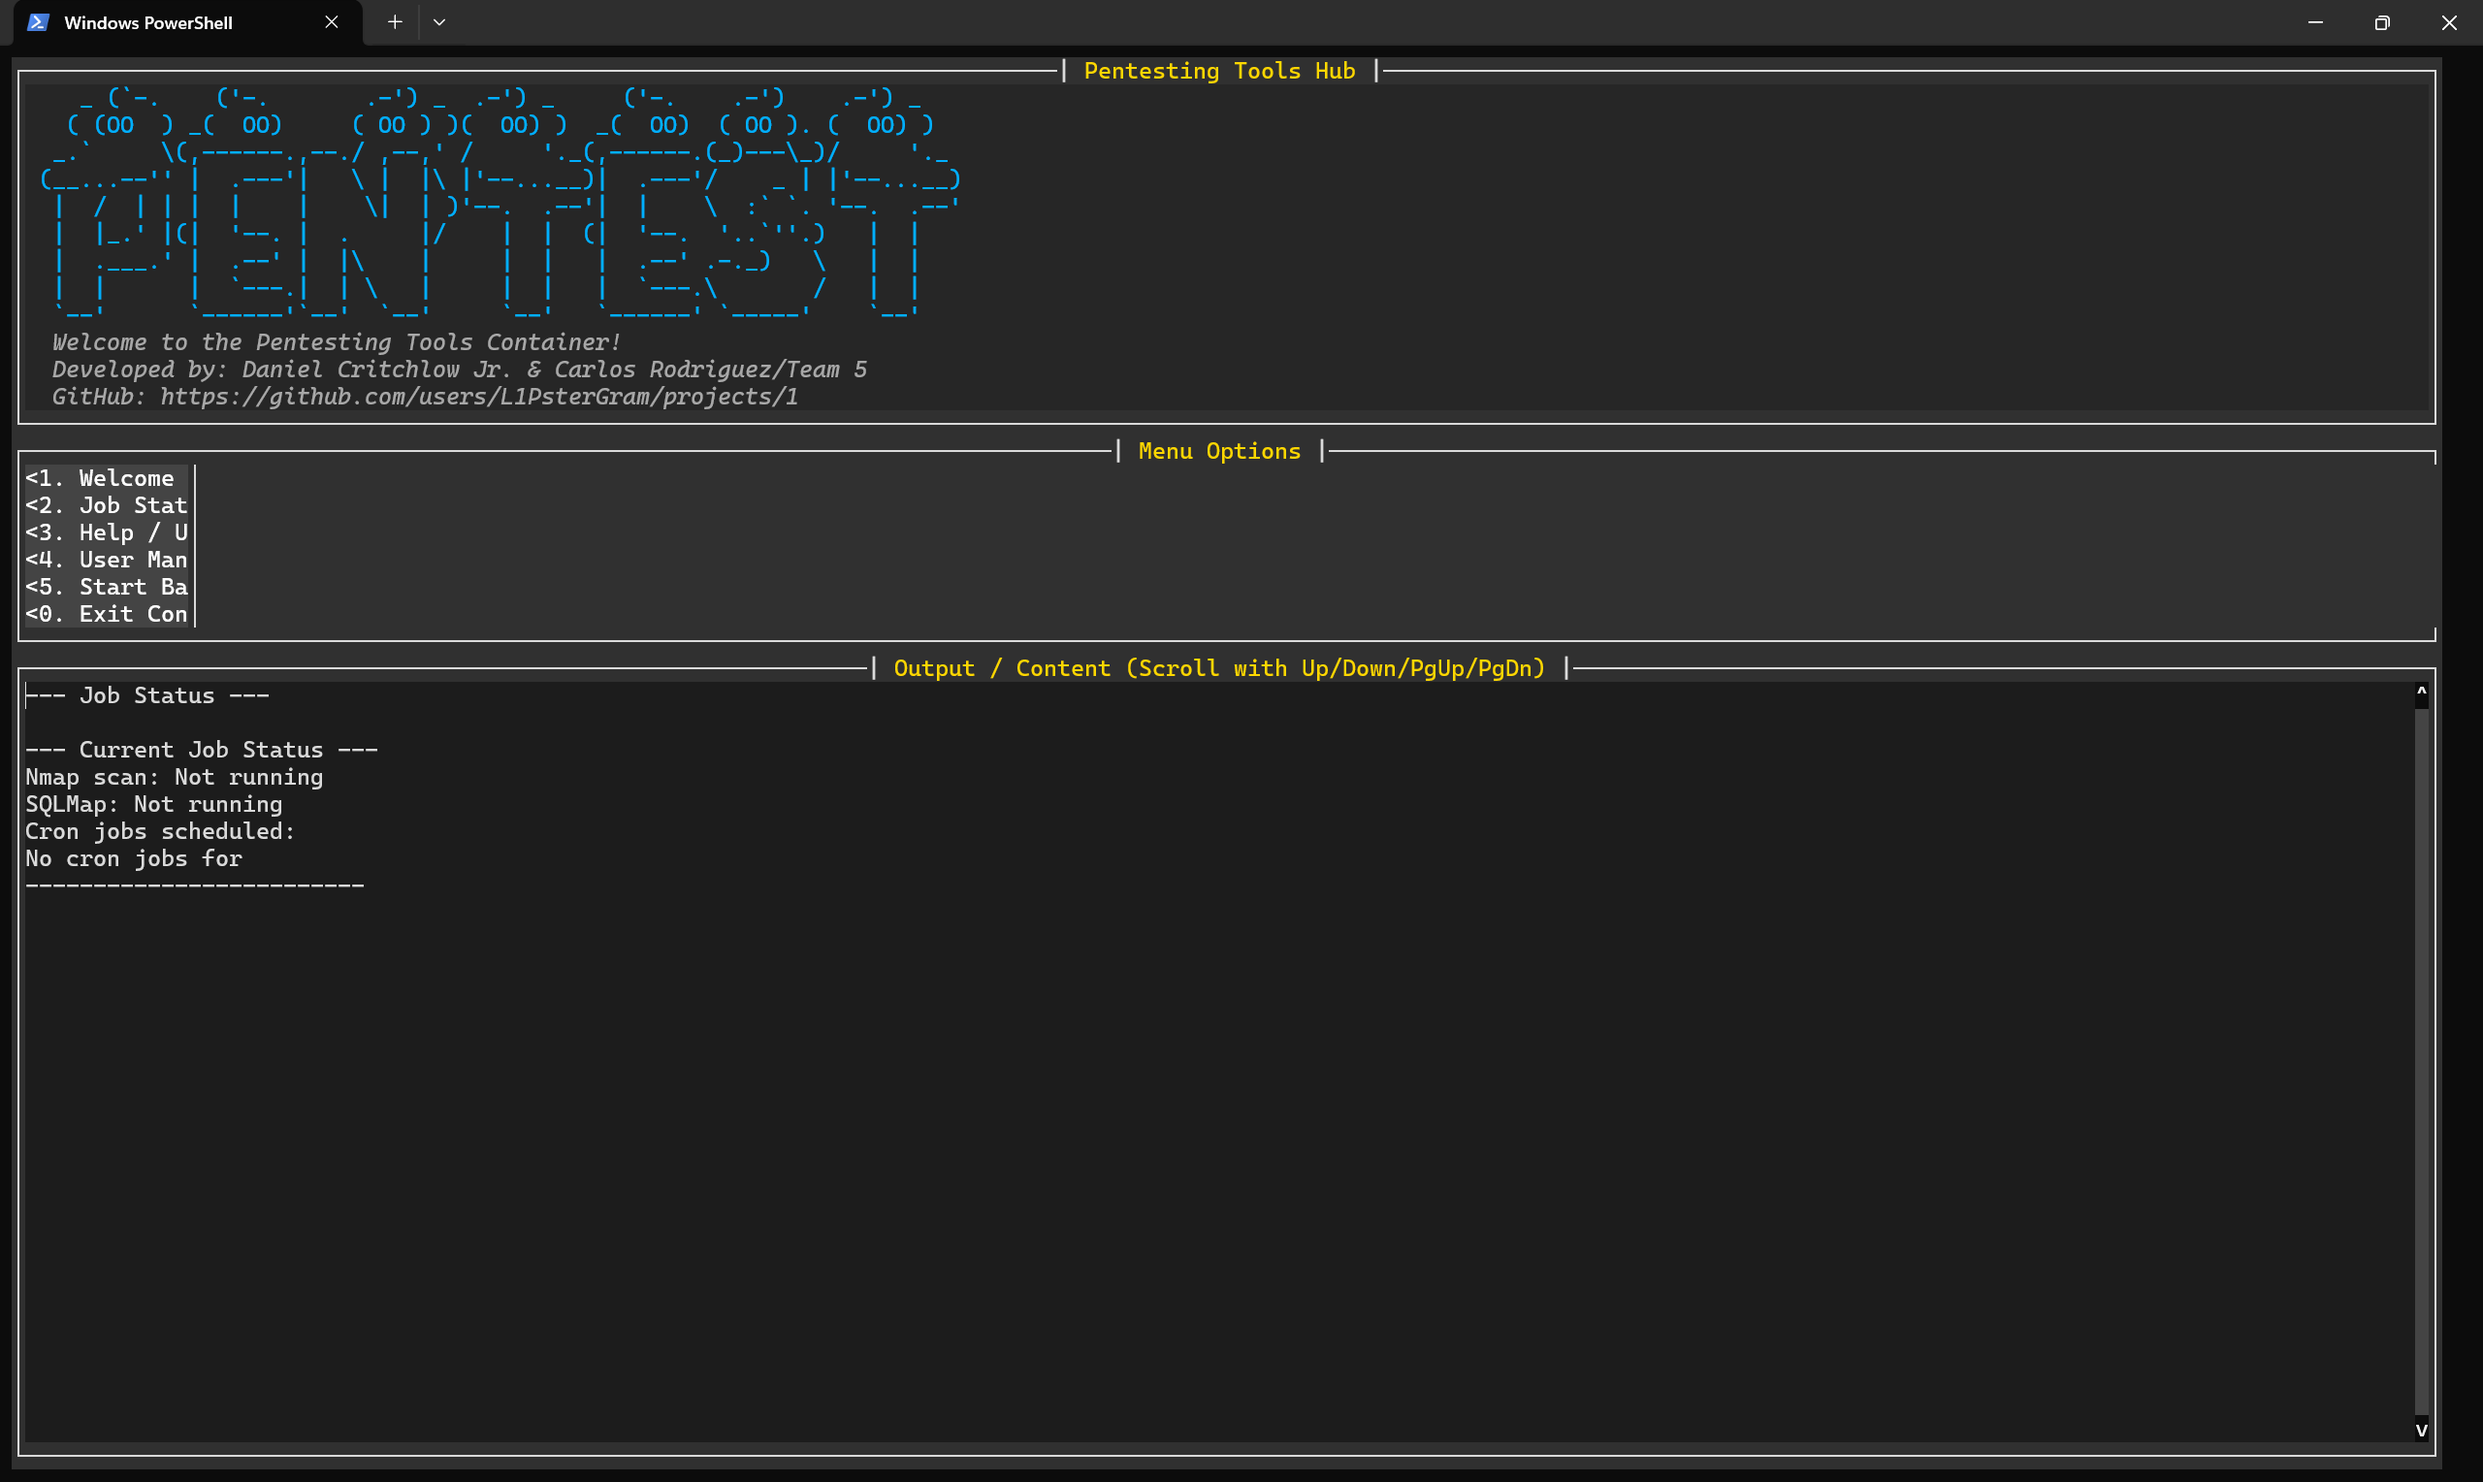
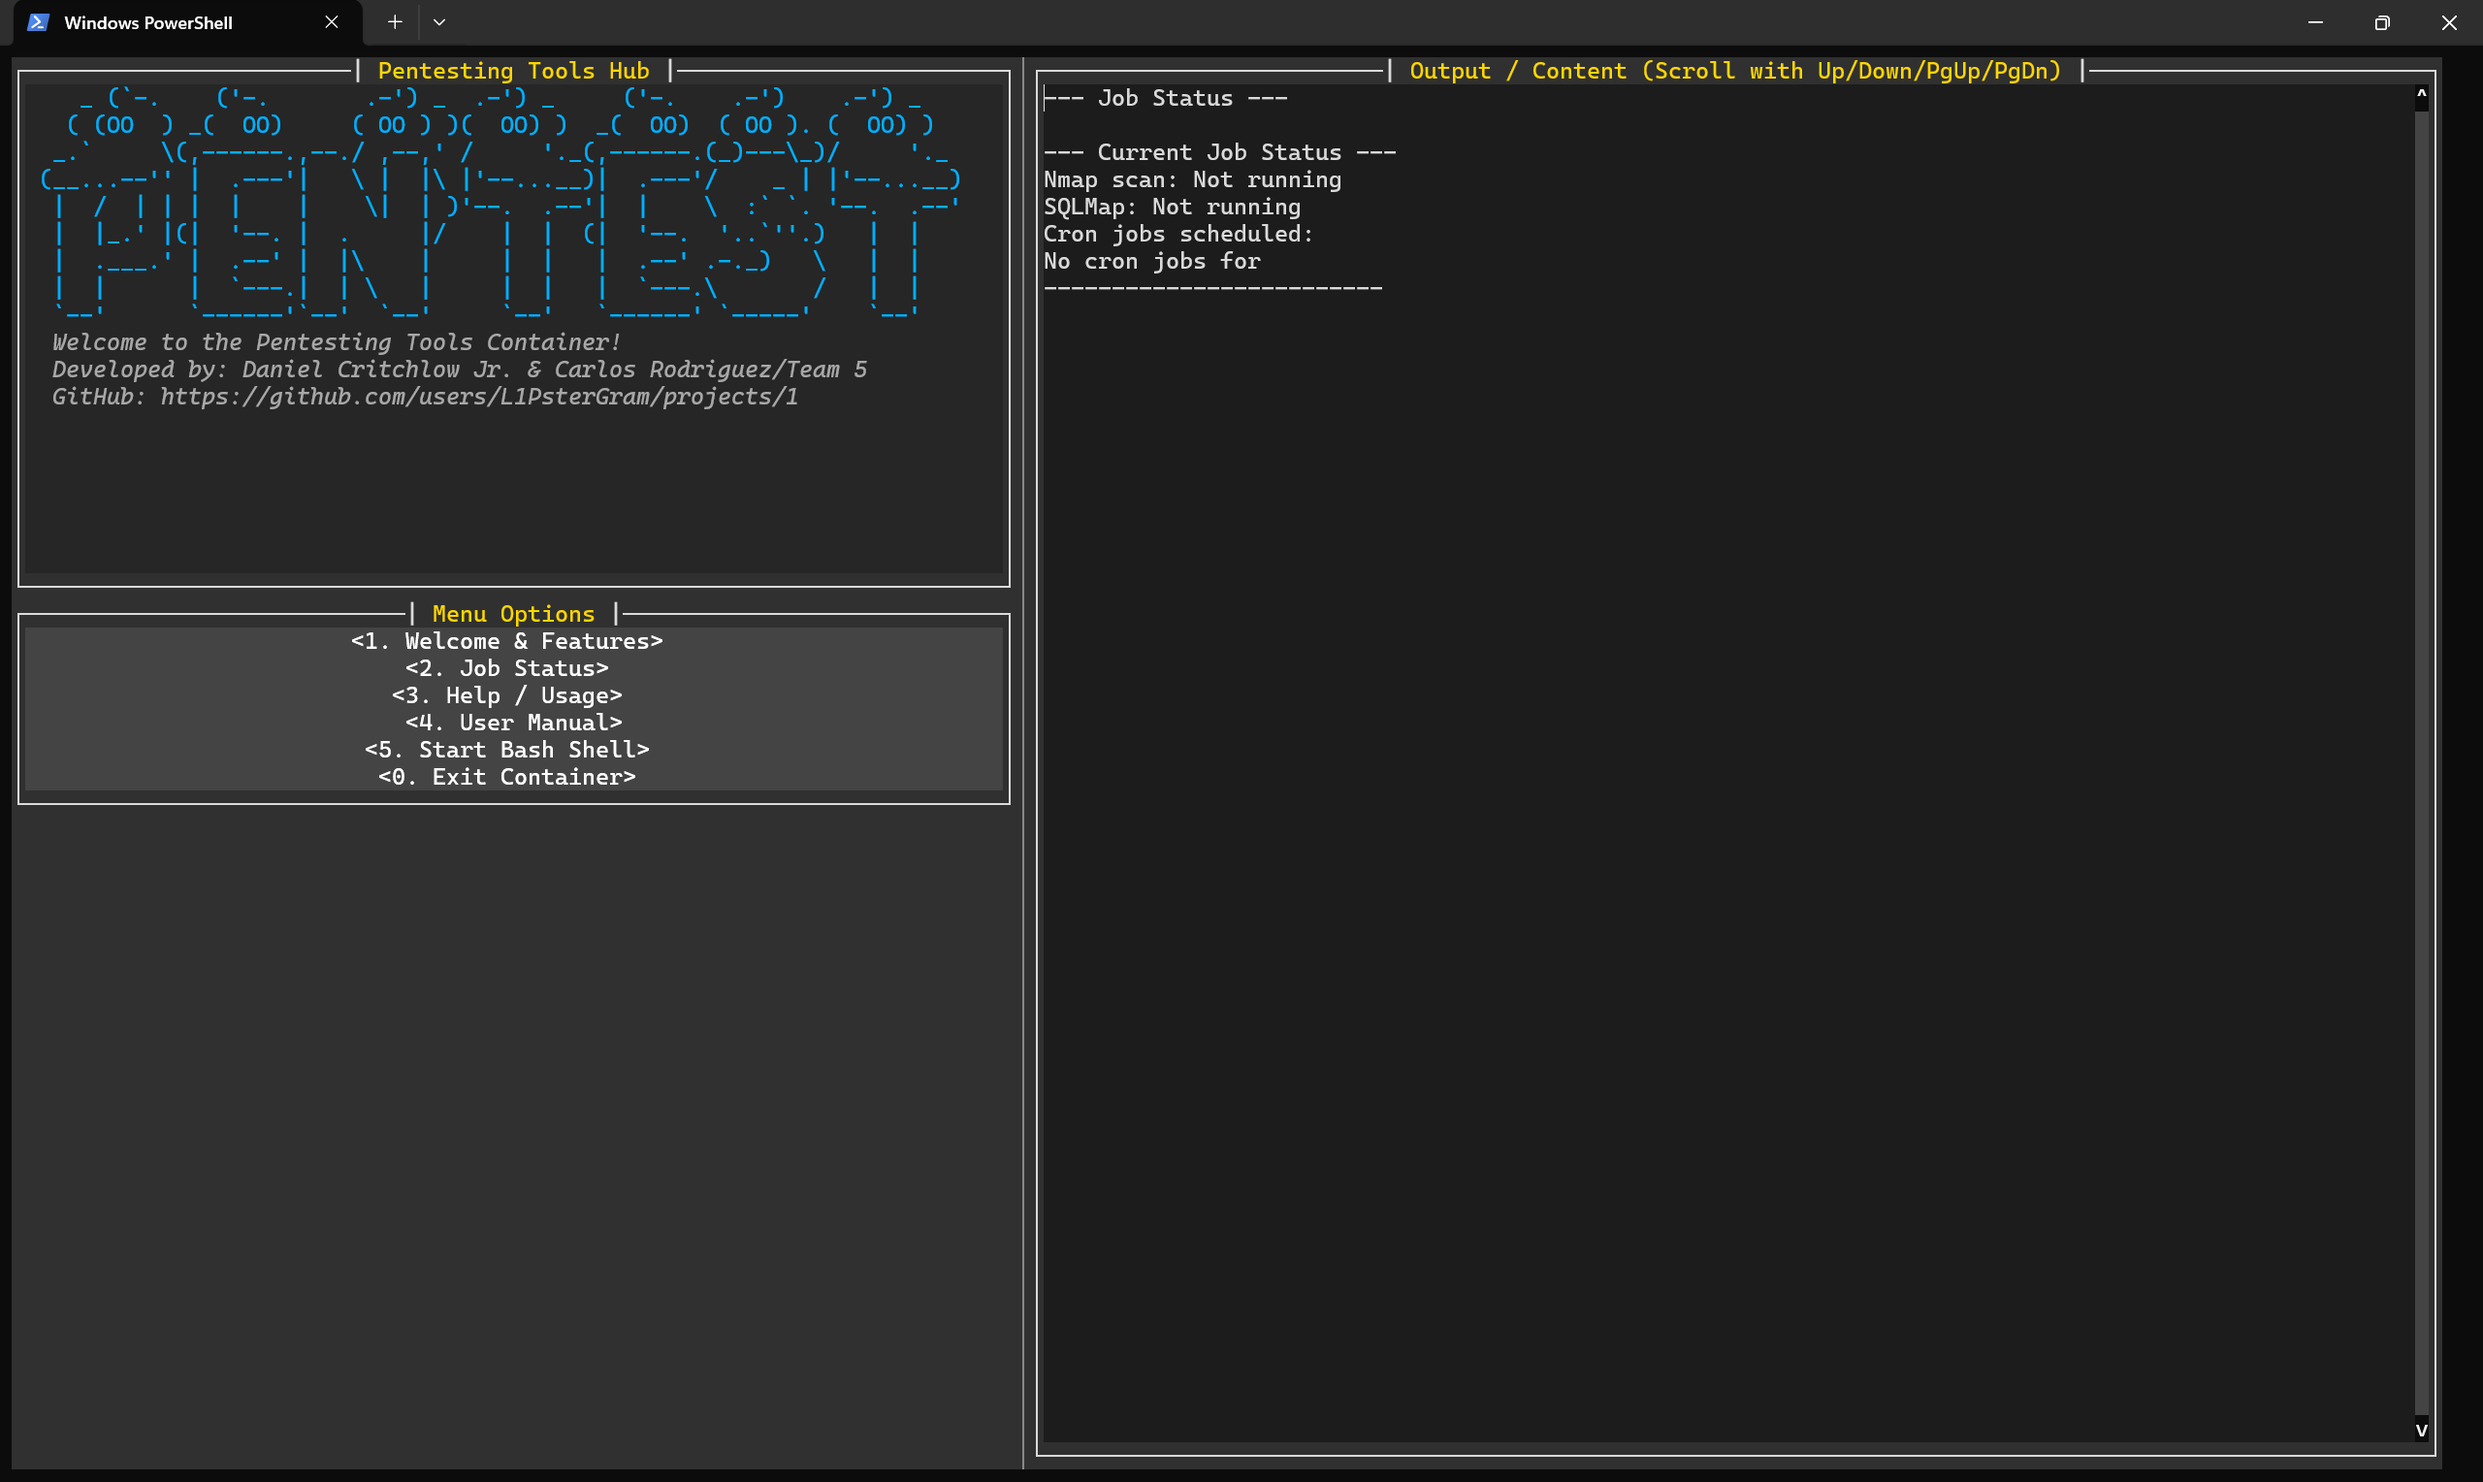
Update TUI
- Various updates to TUI
- Updated screenshots
- Added bashrc
- Cleaned up code
- Added visuals

diff --git a/src/Dockerfile/tui_menu.py b/src/Dockerfile/tui_menu.py
@@ -6,6 +6,8 @@ import sys
 import datetime # For debug logging
 from prompt_toolkit import Application
 from prompt_toolkit.key_binding import KeyBindings
+# Import Dimension object 'D' - Although not strictly needed after removing Window wrappers unless we apply width directly to Frames/HSplits
+from prompt_toolkit.layout.dimension import D 
 from prompt_toolkit.layout.containers import HSplit, Window, VSplit
 from prompt_toolkit.layout.controls import FormattedTextControl
 from prompt_toolkit.layout.layout import Layout
@@ -15,21 +17,25 @@ from prompt_toolkit.formatted_text import HTML
 
 # --- Configuration & Globals ---
 SHELL_FUNCTIONS_SCRIPT = "/usr/local/bin/shell_functions.sh"
-DEBUG_LOG_FILE = "/tmp/tui_debug.log" # Make sure /tmp is writable by the user
+DEBUG_LOG_FILE = "/tmp/tui_debug.log" 
 
 # --- Style for the TUI ---
 tui_style = Style.from_dict({
     'dialog':             'bg:#333333 #dddddd',
     'dialog.body':        'bg:#2a2a2a #cccccc',
+    'frame':              'bg:#333333', 
     'frame.label':        '#FFD700 bold',
     'button':             'bg:#444444 #ffffff',
-    'button.focused':     'bg:#FF8C00 #000000',
+    # This style is applied when the button has focus (e.g., navigating with arrow keys)
+    'button.focused':     'bg:#FF8C00 #000000', 
     'label':              '#eeeeee',
     'text-area':          'bg:#1e1e1e #e0e0e0',
     'text-area.focused':  'bg:#101010',
     'title':              '#FFD700 bold',
     'credits':            'italic #aaaaaa',
     'logo':               '#00aaFF',
+    'vsplit-line':        'bg:#333333 #888888', 
+    'action-confirm':     'fg:#00FF00 bold', # Style for the confirmation text
 })
 
 # --- Helper to Call Shell Functions ---
@@ -62,7 +68,7 @@ def call_shell_function(function_name, *args):
         return f"An unexpected error occurred while calling {function_name}: {str(e)}"
 
 # --- TUI Application State ---
-app_instance = None
+app_instance = None # Keep track of the current app instance
 output_text_area = TextArea(
     text="Welcome! Select an option from the menu.",
     read_only=True,
@@ -71,6 +77,8 @@ output_text_area = TextArea(
     line_numbers=False,
     wrap_lines=True
 )
+# We still need a reference to the button container to return focus
+buttons_layout = None 
 
 # --- Logo and Credits ---
 LOGO_TEXT = HTML(
@@ -90,94 +98,146 @@ CREDITS_TEXT = HTML(
     "  GitHub: https://github.com/users/L1PsterGram/projects/1</credits>"
 )
 
+
 # --- Action Handlers ---
-def update_output_area(title, content_function_name_or_direct_content, is_direct_content=False):
-    global output_text_area, app_instance 
+def update_output_area(action_title, content_function_name_or_direct_content, is_direct_content=False):
+    """Updates the output area, prepending the action taken."""
+    global output_text_area, app_instance, buttons_layout # Need access to buttons_layout
     content_to_display = ""
+    action_confirmation = f"--- Action Selected: {action_title} ---"
+    
     with open(DEBUG_LOG_FILE, "a") as f:
-        f.write(f"{datetime.datetime.now()}: update_output_area: title='{title}'\n")
+        f.write(f"{datetime.datetime.now()}: update_output_area: action='{action_title}'\n")
 
     if is_direct_content:
         content_to_display = content_function_name_or_direct_content
     else:
         content_to_display = call_shell_function(content_function_name_or_direct_content)
     
-    output_text_area.text = f"--- {title} ---\n\n{content_to_display}"
+    # Prepend the action confirmation to the actual content
+    output_text_area.text = f"{action_confirmation}\n\n{content_to_display}"
+    
     with open(DEBUG_LOG_FILE, "a") as f:
         f.write(f"{datetime.datetime.now()}: output_text_area.text updated.\n")
     
-    if app_instance and app_instance.layout: 
-       app_instance.layout.focus(output_text_area)
-       with open(DEBUG_LOG_FILE, "a") as f:
-           f.write(f"{datetime.datetime.now()}: output_text_area focused.\n")
+    # Return focus to the button container to keep navigation intuitive
+    if app_instance and app_instance.layout and buttons_layout: 
+       try:
+           app_instance.layout.focus(buttons_layout) 
+           with open(DEBUG_LOG_FILE, "a") as f:
+               f.write(f"{datetime.datetime.now()}: buttons_layout focused.\n")
+       except Exception as focus_error:
+            with open(DEBUG_LOG_FILE, "a") as f:
+               f.write(f"{datetime.datetime.now()}: Error focusing buttons_layout: {focus_error}\n")
 
-
-def action_welcome(): update_output_area("Full Welcome Message & Features", "display_welcome")
+# Define actions that call update_output_area with a descriptive title
+def action_welcome(): update_output_area("Welcome & Features", "display_welcome")
 def action_job_status(): update_output_area("Job Status", "display_job_status")
-def action_help(): update_output_area("Help / Usage Instructions", "display_help")
+def action_help(): update_output_area("Help / Usage", "display_help")
 def action_manual(): update_output_area("User Manual", "display_manual")
 def action_bash_shell():
     global app_instance
-    if app_instance: app_instance.exit(result="start_bash")
+    if app_instance: app_instance.exit(result="start_bash") # Signal intent to start bash
 def action_exit_container():
     global app_instance
-    if app_instance: app_instance.exit(result="exit_container")
+    if app_instance: app_instance.exit(result="exit_container") # Signal intent to exit fully
 
 # --- Menu Buttons & Layout ---
-buttons_layout = HSplit([
-    Button("1. Welcome & Features", handler=action_welcome),
+# Assign the HSplit to the global variable here
+buttons_layout = HSplit([ 
+    Button("1. Welcome & Features", handler=action_welcome), 
     Button("2. Job Status", handler=action_job_status),
     Button("3. Help / Usage", handler=action_help),
     Button("4. User Manual", handler=action_manual),
     Button("5. Start Bash Shell", handler=action_bash_shell),
     Button("0. Exit Container", handler=action_exit_container),
-], padding=0, style='class:dialog.body')
+], padding=0, width=72, style='class:dialog.body')
 
-root_container = HSplit([
+# Define the left panel (Logo, Credits, Menu)
+left_panel_content = HSplit([
     Frame(title="Pentesting Tools Hub", body=HSplit([
-        # MODIFIED: Changed height from 7 to 9 for the logo window
         Window(content=FormattedTextControl(text=LOGO_TEXT), height=9, style='class:dialog.body'),
-        Window(content=FormattedTextControl(text=CREDITS_TEXT), height=3, style='class:dialog.body'),
-    ]), style='class:dialog'),
-    Frame(title="Menu Options", body=buttons_layout, style='class:dialog'),
-    Frame(title="Output / Content (Scroll with Up/Down/PgUp/PgDn)", body=output_text_area, style='class:dialog'),
-], style='class:dialog')
+        Window(content=FormattedTextControl(text=CREDITS_TEXT), height=3, style='class:dialog.body'), 
+    ]), style='class:frame'), 
+    Frame(title="Menu Options", body=buttons_layout, style='class:frame') 
+])
+
+# Define the right panel (Output Area)
+right_panel_content = Frame(
+    title="Output / Content (Scroll with Up/Down/PgUp/PgDn, Tab to focus)", 
+    body=output_text_area,
+    style='class:frame'
+)
+
+# root_container uses VSplit directly with the panel contents
+root_container = VSplit([
+    left_panel_content, 
+    Window(width=1, char='│', style='class:vsplit-line'), 
+    right_panel_content,
+], padding=0, style='class:dialog') 
 
 # --- Key Bindings ---
 kb = KeyBindings()
 @kb.add('c-c', eager=True)
 @kb.add('c-q', eager=True)
-def _(event): event.app.exit(result="user_interrupt")
+def _(event): event.app.exit(result="user_interrupt") # Signal intent for interrupt exit
 
 # --- Main Application ---
 def main():
-    global app_instance
-    with open(DEBUG_LOG_FILE, "w") as f:
-        f.write(f"{datetime.datetime.now()}: TUI Application Started.\n")
-    os.system('clear')
+    global app_instance # Make sure we can modify the global instance
 
-    app_instance = Application(
-        layout=Layout(root_container),
-        key_bindings=kb,
-        full_screen=True,
-        style=tui_style,
-        mouse_support=True
-    )
-    exit_reason = app_instance.run()
-    
-    os.system('clear')
-    if exit_reason == "start_bash":
-        print("Starting bash shell...")
-        try: os.execvp("bash", ["bash"])
-        except FileNotFoundError:
-            print("Error: bash command not found.", file=sys.stderr)
-            sys.exit(1)
-    elif exit_reason == "exit_container": print("Exiting container.")
-    elif exit_reason == "user_interrupt": print("Exited by user (Ctrl+C or Ctrl+Q).")
-    else: print(f"Exiting TUI (Reason: {exit_reason}).")
+    # Outer loop to allow relaunching the TUI after bash exits
+    while True: 
+        # Clear debug log for this run
+        with open(DEBUG_LOG_FILE, "w") as f:
+            f.write(f"{datetime.datetime.now()}: TUI Application Starting/Restarting.\n")
+        
+        # Clear screen before starting TUI (optional, but can be cleaner)
+        # os.system('clear') # Can cause flicker, might remove
+
+        # Initialize the Application for this run
+        app_instance = Application(
+            layout=Layout(root_container),
+            key_bindings=kb,
+            full_screen=True,
+            style=tui_style,
+            mouse_support=True
+        )
+        
+        # Run the TUI event loop. This blocks until app.exit() is called.
+        exit_reason = app_instance.run()
+        
+        # Post-TUI actions based on the exit reason
+        os.system('clear') # Clear the TUI screen after it exits
+
+        if exit_reason == "start_bash":
+            print("Starting bash shell... Type 'exit' to return to TUI.")
+            # Run bash interactively. The script waits here until bash exits.
+            return_code = os.system('bash') 
+            with open(DEBUG_LOG_FILE, "a") as f:
+                f.write(f"{datetime.datetime.now()}: Bash shell exited with code {return_code}.\n")
+            os.system('clear') # Clear bash output before restarting TUI
+            continue # Go back to the start of the while loop to relaunch TUI
+
+        elif exit_reason == "exit_container":
+            print("Exiting container.")
+            break # Exit the while loop
+
+        elif exit_reason == "user_interrupt":
+            print("Exited by user (Ctrl+C or Ctrl+Q).")
+            break # Exit the while loop
+        
+        else:
+            # Handle any other unexpected exit reasons
+            print(f"Exiting TUI (Reason: {exit_reason}).")
+            break # Exit the while loop
+
+    # Script finishes after the loop breaks
     sys.exit(0)
 
+
 if __name__ == "__main__":
+    # Initial check for the shell functions script
     if not (os.path.isfile(SHELL_FUNCTIONS_SCRIPT) and os.access(SHELL_FUNCTIONS_SCRIPT, os.X_OK)):
         print(f"Critical Error: '{SHELL_FUNCTIONS_SCRIPT}' not found or not executable.", file=sys.stderr)
         sys.exit(1)
